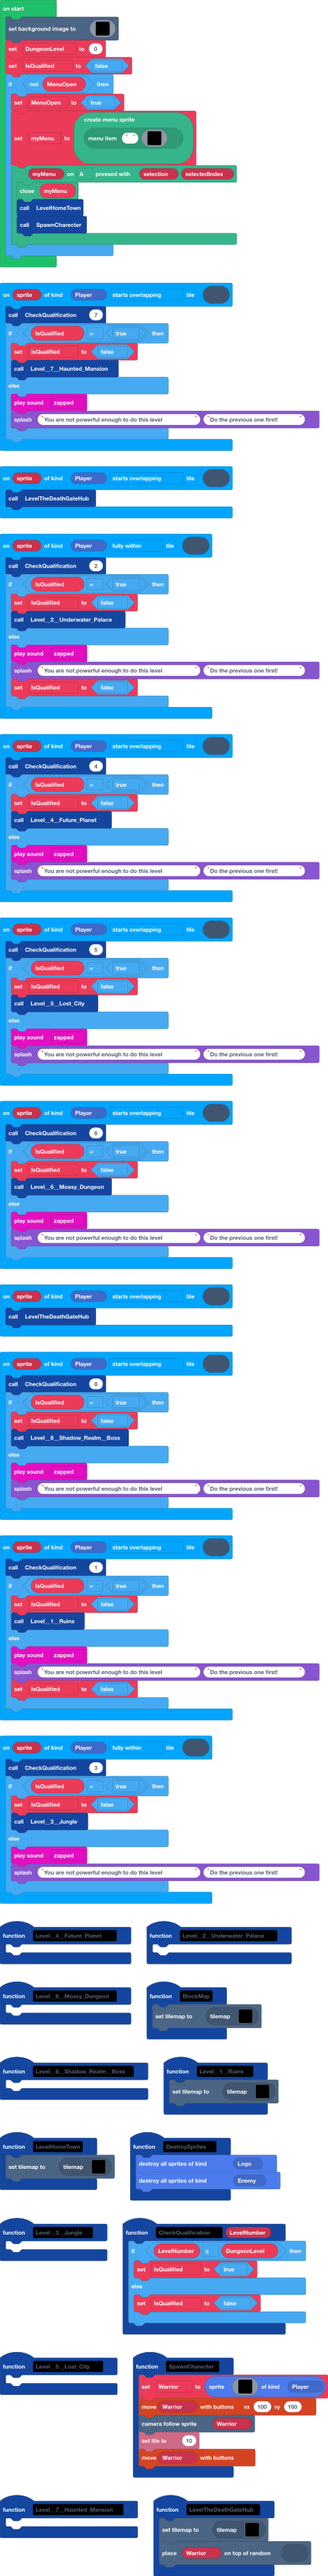
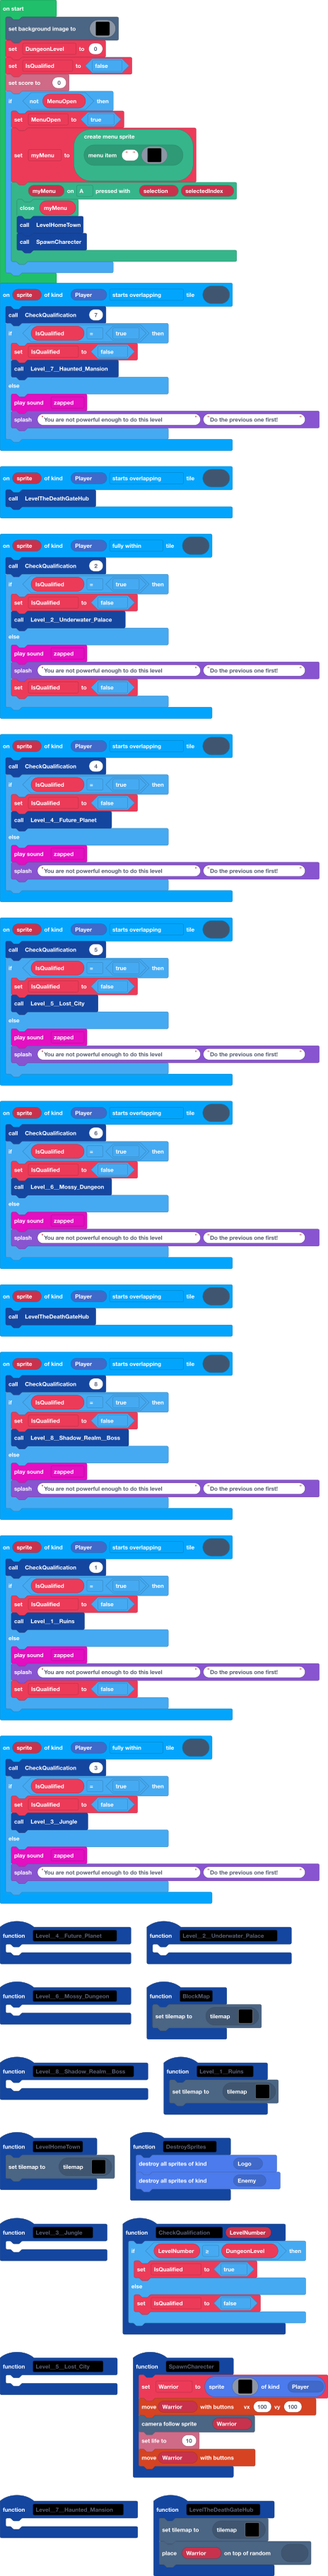
Update main.blocks, main.ts

Changed region(s): [[0.0, 0.031, 0.7241, 0.124]]

diff --git a/main.ts b/main.ts
@@ -284,6 +284,7 @@ scene.setBackgroundImage(img`
     `)
 DungeonLevel = 0
 IsQualified = false
+info.setScore(0)
 if (!(MenuOpen)) {
     MenuOpen = true
     myMenu = miniMenu.createMenu(
